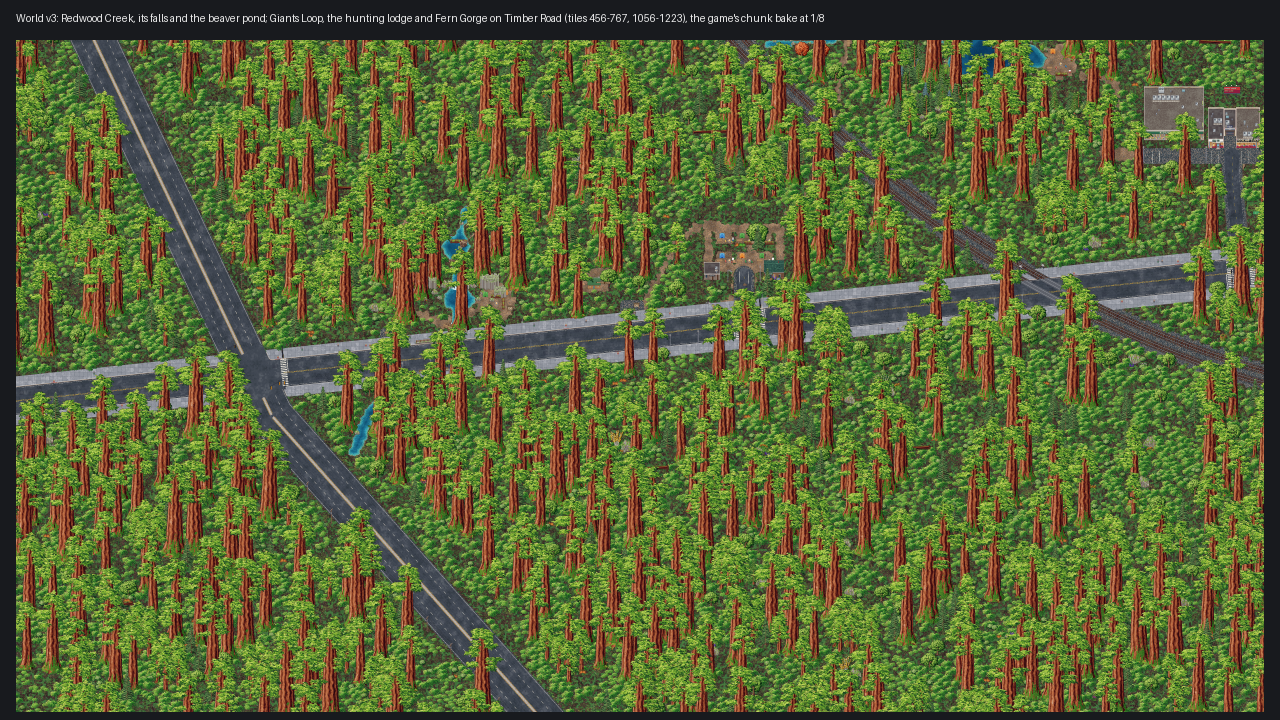
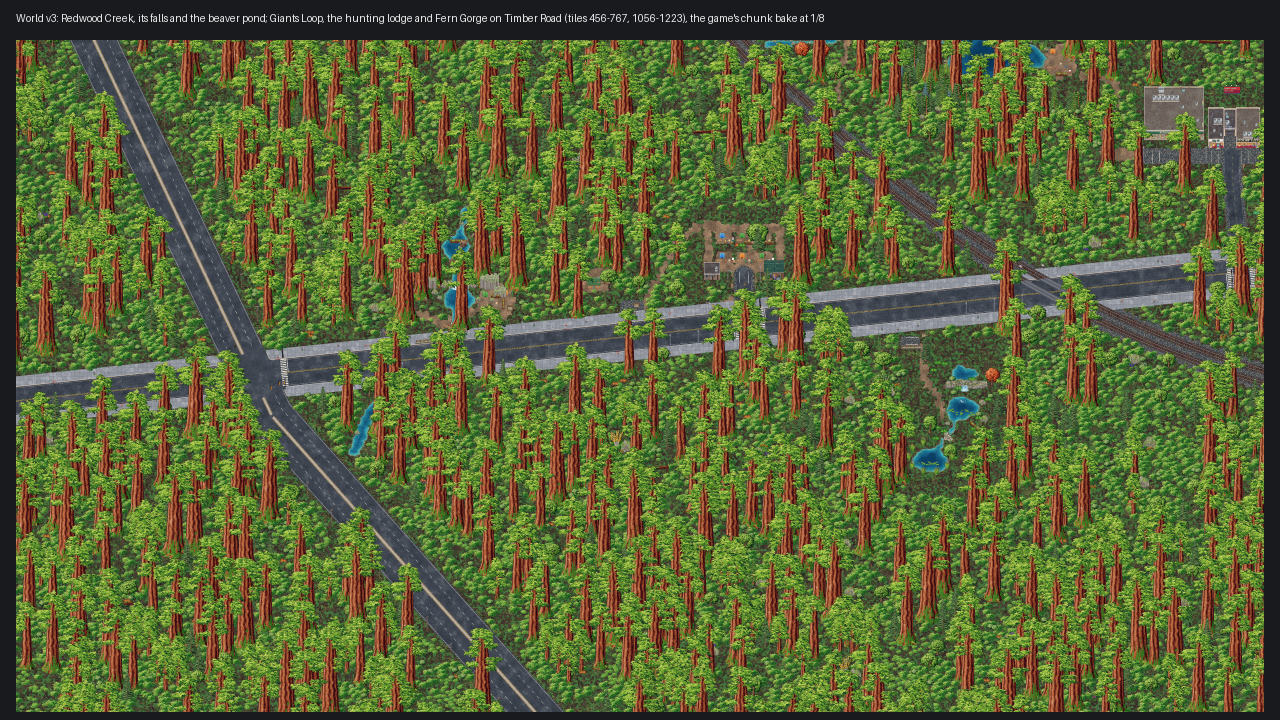
World v3 8.19 (H47): the redwoods picture with Fern Gorge; the tests run noted
Claude-Session: https://claude.ai/code/session_015TdwbASoLBxZr1VoEZGToX

Changed region(s): [[0.6875, 0.3667, 0.8125, 0.7028]]

diff --git a/docs/WORLD-V3.md b/docs/WORLD-V3.md
@@ -3743,7 +3743,8 @@ Tests: `test/world3wild.test.js` (one world build, as before and: each newly mov
 region's ground, its landmark clear of the highways and the main line; the tracks on the one network, reaching their
 ends, meeting no highway; the lookout, the two hunting camps and the trapper's cabin in their regions, the beaver pond
 on Redwood Creek; the Old Granite Mine's seams and the one cave under Copper Gulch Mine; the canyon in the desert, the
-wash, the oasis's track; the water park's slides).
+wash, the oasis's track; the water park's slides), `test/world3desert.test.js` (the cave still under Copper Gulch
+Mine's adit), `test/world3roads.test.js`, `test/world3world.test.js`: all pass.
 
 Pictures (`tools/world3-world-map.mjs --towns --only redwoods,ridge,oldmine,canyon,splash,drycreek`):
 `docs/world-v3-town-redwoods.png`, `-ridge.png`, `-oldmine.png`, `-canyon.png`, `-splash.png`, and `-drycreek.png`
@@ -3754,8 +3755,10 @@ above Lookout Road's end; the canyon south of Mesa Road with the Canyon Track do
 its south-east corner; Mirage Lake with its track in from Canyon Road; the water park whole on Mine Road's south side,
 its pool, island and slides; the boneyard's planes on plain ground now, the Boneyard Track to its gate. What looks
 wrong:
-- **Fern Gorge isn't in the redwoods picture** (taken with it at 681, where it wasn't built; it wants a picture at
-  693, 1140); Giants Loop's trail doesn't read at 1/8 (a thin path in the redwoods).
+- **Fern Gorge reads as three ponds in the redwoods** (the spring pool, the lily pool below the ledge, the reedy pond,
+  its trail up from the pull-off on Timber Road's south edge): the granite ledge and its falls are too small to read
+  at 1/8, and the redwoods crowd it - today's stood among firs and maples; Giants Loop's trail doesn't read at 1/8 (a
+  thin path in the redwoods).
 - **The canyon is a flat red rectangle**: the painting's own ground (red rock, its cliffs drawn) on the v3 desert's tan,
   with a hard edge - it wants the painting's edge blended into the ground or the canyon built of the desert's mesas; a
   biome wash runs into its north-east corner and out of its south-east one (kept off inside its box only).

diff --git a/docs/DEVLOG.md b/docs/DEVLOG.md
@@ -7970,4 +7970,6 @@ line), test/world3wild.test.js, docs/WORLD-V3.md 8.19, docs/world-v3-town-redwoo
 Tests: test/world3wild.test.js (one world build: as before, and each newly moved site built once at its spot on its
 region's ground; the tracks on the one network, reaching their ends, meeting no highway; the lookout, the two hunting
 camps and the trapper's cabin in their regions, the beaver pond on Redwood Creek; the Old Granite Mine's seams and the
-one cave under Copper Gulch Mine; the canyon in the desert, the wash, the oasis's track; the water park's slides).
+one cave under Copper Gulch Mine; the canyon in the desert, the wash, the oasis's track; the water park's slides),
+test/world3desert.test.js, test/world3roads.test.js, test/world3world.test.js: all pass. `tools/perf.mjs`' code
+report: the city worker 34 files, 359 KB of 360.
